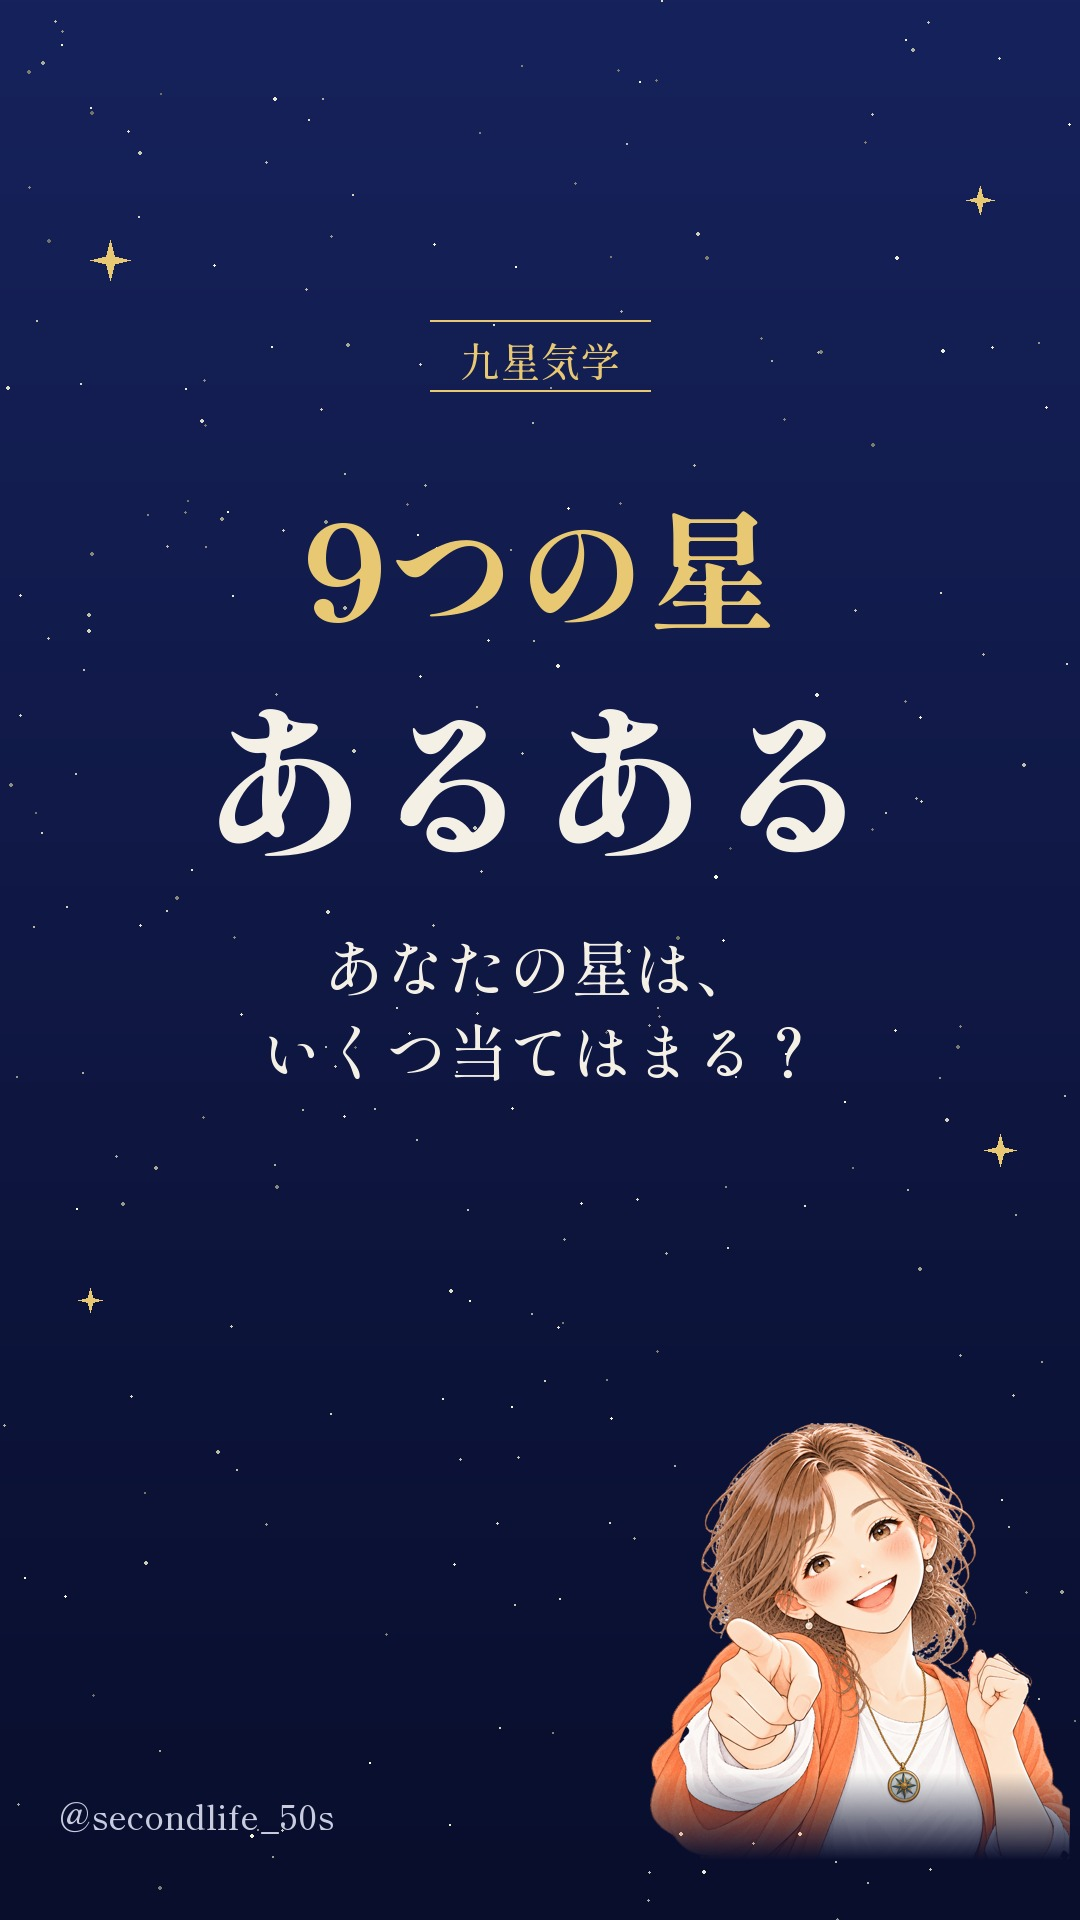
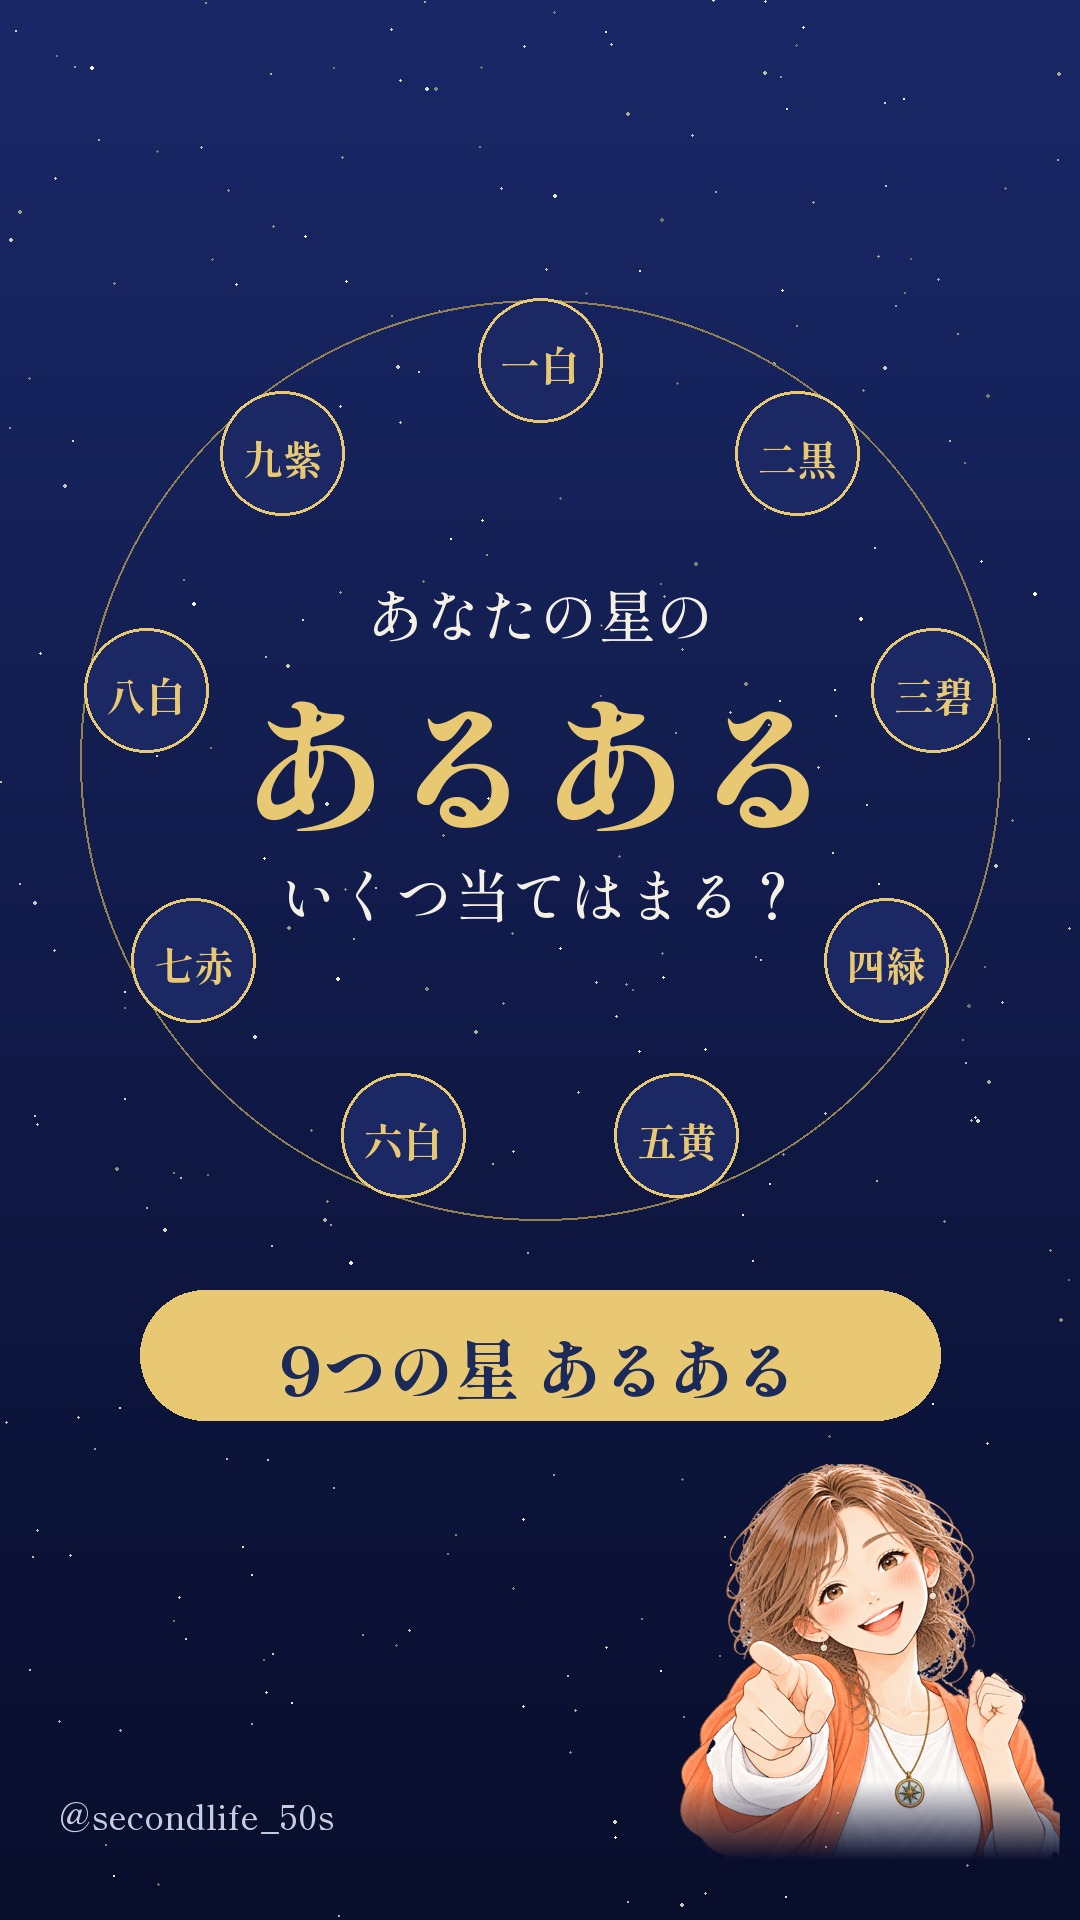
Aruaru reel cover
Claude-Session: https://claude.ai/code/session_01QCjcdfeJxrrhGewX2BNazy

diff --git a/feed/aruaru/cover.py b/feed/aruaru/cover.py
@@ -1,0 +1,36 @@
+# あるあるリールの表紙(1080x1920)。プロフィールの一覧では中央の 1080x1440 が見えるので、文字はその中に収める
+import os, random, sys, math
+from PIL import Image, ImageDraw, ImageFont
+W,H=1080,1920
+F8='/root/.cache/night-reel-fonts/ShipporiMinchoB1-800.ttf'; F5='/root/.cache/night-reel-fonts/ShipporiMinchoB1-500.ttf'
+GOLD,WHITE,SOFT=(232,200,114),(245,240,230),(200,204,222)
+C,OUT=sys.argv[1:3]
+f=lambda s,b=True: ImageFont.truetype(F8 if b else F5,s)
+im=Image.new('RGB',(W,H)); d=ImageDraw.Draw(im)
+for y in range(H):
+    t=y/H; d.line([(0,y),(W,y)],fill=tuple(int(a+(b-a)*t) for a,b in zip((26,40,104),(9,14,44))))
+r=random.Random(5)
+for _ in range(300):
+    x,y,s,a=r.randrange(W),r.randrange(H),r.choice([1,1,2,2,3]),r.randint(110,255); d.ellipse([x-s/2,y-s/2,x+s/2,y+s/2],fill=(a,a,int(a*.9)))
+def ctr(y,t,size,col=WHITE,b=True):
+    ft=f(size,b); d.text(((W-d.textlength(t,font=ft))/2,y),t,font=ft,fill=col)
+# 9つの星の名前を円形に並べる
+names=['一白','二黒','三碧','四緑','五黄','六白','七赤','八白','九紫']
+cx,cy,R=540,760,400
+d.ellipse([cx-R-60,cy-R-60,cx+R+60,cy+R+60],outline=(150,130,80),width=2)
+for k,n in enumerate(names):
+    a=math.radians(-90+k*40); x=cx+R*math.cos(a); y=cy+R*math.sin(a)
+    d.ellipse([x-62,y-62,x+62,y+62],fill=(28,40,100),outline=GOLD,width=3)
+    ft=f(40); d.text((x-d.textlength(n,font=ft)/2,y-26),n,font=ft,fill=GOLD)
+ctr(570,'あなたの星の',58,WHITE,False)
+ctr(650,'あるある',150,GOLD)
+ctr(850,'いくつ当てはまる？',58,WHITE,False)
+# 下の帯
+d.rounded_rectangle([140,1290,940,1420],radius=65,fill=GOLD)
+ctr(1318,'9つの星 あるある',66,(27,42,90))
+c=Image.open(os.path.join(C,'pose-point-you.png')).convert('RGBA'); wd=380; c=c.resize((wd,round(c.height*wd/c.width)))
+a=c.getchannel('A'); fade=Image.new('L',c.size,255); fd=ImageDraw.Draw(fade)
+for y in range(int(c.height*.8),c.height): fd.line([(0,y),(c.width,y)],fill=int(255*(c.height-y)/(c.height*.2)))
+c.putalpha(Image.composite(a,Image.new('L',c.size,0),fade)); im.paste(c,(W-wd-20,H-c.height-60),c)
+d.text((60,H-130),'@secondlife_50s',font=f(34,False),fill=SOFT)
+im.save(OUT,quality=92)
